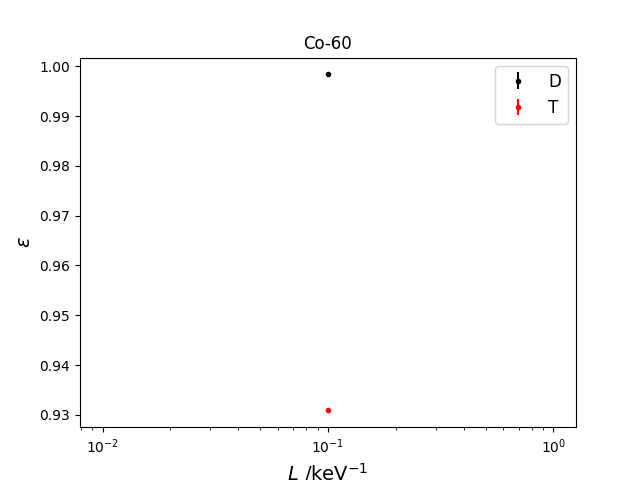
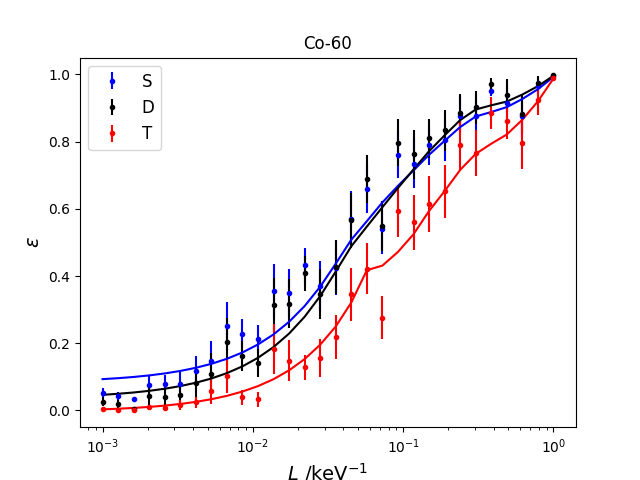
Calculate for single events

diff --git a/MCTDCRcode/main_MCTDCR.py b/MCTDCRcode/main_MCTDCR.py
@@ -16,24 +16,27 @@ import scipy.stats as st
 
 
 ## INPUT OF THE MODEL
-N=25             # number of simulated decay (MC trials)
-Rad=["Cs-137"]       # list of radionuclides (Na-24)
+N=50             # number of simulated decay (MC trials)
+Rad=["Co-60"]       # list of radionuclides (Na-24)
 pmf_1=[1]       # relative abondance (pmf)
 kB = 1e-5         # Birks constant in cm/keV
-#L=[1e-1]
-L = np.logspace(-3, 0, 25) # Free paramete in keV-1 (for Co-60)
-# L = np.logspace(-4,-2,10) # Free paramete in keV-1 (for Co-60)
+# L=[1e-1]
+#L = np.logspace(-3, 0, 25) # Free paramete in keV-1 (for Cs-137)
+L = np.logspace(-3,0,50) # Free paramete in keV-1 (for Co-60)
 # L = np.logspace(-3,-1,10) # Free paramete in keV-1 (for Am-241)
 # L = np.logspace(-3,1,30) # Free paramete in keV-1 (for Sr-90)
 # L = np.logspace(-2,1,50) # Free paramete in keV-1 (for H-3)
 TDCR_measure = 0.977784        # Measured TDCR value
 u_TDCR_measure = 0.000711      # standard uncertainty
+Record = True                  # to record the efficiency curves
 RHO = 0.96         #density of absorber (Toluene) g/cm3
 
 if np.size(pmf_1) > 1:
     if sum(pmf_1) !=1: print("warning p not equal to 1")
 elif pmf_1[0] != 1: print("warning")
 
+mean_efficiency_S = []  # efficiency of single counte rate
+std_efficiency_S = []   # std
 mean_efficiency_T = []  # efficiency of triple coincidence counte rate
 std_efficiency_T = []   # std
 mean_efficiency_D = []  # efficiency of double coincidence counte rate
@@ -42,6 +45,7 @@ TDCR_calcul = []
 for L_i in L: # loop on the free parameter values
 
     ## RUN THE MC CALCULATION
+    efficiency_S = []        # results calculated efficiency for single events
     efficiency_D = []        # results calculated efficiency for double coincidence
     efficiency_T = []        # results calculated efficiency for triple coincidence
 
@@ -210,8 +214,9 @@ for L_i in L: # loop on the free parameter values
        #energy_vec=[90,90,90,3,3,3,3,3,3,3]  # test against Broda ARI 58 (2003) 585-594
        #energy_vec=[25,25,25,3,3,3,3,3,3,3]  # test against Broda ARI 58 (2003) 585-594
        #energy_vec=[3,3,3,3,3,3,3,3,3,3]  # test against Broda ARI 58 (2003) 585-594
-       p_nosingle = np.exp(-L_i*np.sum(np.asarray(energy_vec))/3)
-       p_single = 1-p_nosingle
+       p_nosingle = np.exp(-L_i*np.sum(np.asarray(energy_vec))/3) # probability to have 0 electrons in a PMT
+       p_single = 1-p_nosingle                                    # probability to have at least 1 electrons in a PMT
+       efficiency_S.append(p_single)
        efficiency_T.append(p_single**3)
        efficiency_D.append(3*(p_single)**2-2*efficiency_T[-1])
 
@@ -221,13 +226,15 @@ for L_i in L: # loop on the free parameter values
     std_efficiency_T.append(np.std(efficiency_T)/np.sqrt(N))   # standard deviation
     mean_efficiency_D.append(np.mean(efficiency_D))
     std_efficiency_D.append(np.std(efficiency_D)/np.sqrt(N))
+    mean_efficiency_S.append(np.mean(efficiency_S))
+    std_efficiency_S.append(np.std(efficiency_S)/np.sqrt(N))
     TDCR_calcul.append(mean_efficiency_T[-1]/mean_efficiency_D[-1])
     
     print("\t TDCR calculation")
     print("\t\t Free parameter : ", L_i, " keV-1")
     print("\t\t Efficiency of Triple coincident events : ", round(100*mean_efficiency_T[-1],3), "+/-", round(100*std_efficiency_T[-1],3), " %")
     print("\t\t Efficiency of Double coincident events : ", round(100*mean_efficiency_D[-1],3), "+/-", round(100*std_efficiency_D[-1],3), " %")
-
+    print("\t\t Efficiency of Single events : ", round(100*mean_efficiency_S[-1],3), "+/-", round(100*std_efficiency_S[-1],3), " %")
 #    x = np.arange(np.mean(efficiency_T),1.001,0.001)
 #    plt.figure("efficiency distribution")
 #    plt.clf()
@@ -250,13 +257,16 @@ for L_i in L: # loop on the free parameter values
 
 # TDCR_calcul_vec = np.asarray(efficiency_T)/np.asarray(efficiency_D)
 
+Eff0_S_reg = tl.regress(L, mean_efficiency_S)
 Eff0_D_reg = tl.regress(L, mean_efficiency_D)
 Eff0_T_reg = tl.regress(L, mean_efficiency_T)
 
 plt.figure("Efficiency curve I")
 plt.title(''.join(Rad))
+plt.errorbar(L, mean_efficiency_S, yerr = std_efficiency_D, fmt=".b", label = "S")
 plt.errorbar(L, mean_efficiency_D, yerr = std_efficiency_D, fmt=".k", label = "D")
 plt.errorbar(L, mean_efficiency_T, yerr = std_efficiency_T, fmt=".r", label = "T")
+plt.plot(Eff0_S_reg[:,0],Eff0_S_reg[:,1],'-b')
 plt.plot(Eff0_D_reg[:,0],Eff0_D_reg[:,1],'-k')
 plt.plot(Eff0_T_reg[:,0],Eff0_T_reg[:,1],'-r')
 plt.xscale("log")
@@ -265,20 +275,25 @@ plt.xscale("log")
 plt.xlabel(r"$L$ /keV$^{-1}$", fontsize = 14)
 plt.ylabel(r"$\epsilon$", fontsize = 14)
 plt.legend(fontsize = 12)
-plt.savefig("EfficiencyCurves/fom_"+''.join(Rad)+".png")
+if Record: plt.savefig("EfficiencyCurves/fom_"+''.join(Rad)+".png")
 plt.close()
 
+Eff_S_reg = tl.regress(TDCR_calcul, mean_efficiency_S)
 Eff_D_reg = tl.regress(TDCR_calcul, mean_efficiency_D)
 Eff_T_reg = tl.regress(TDCR_calcul, mean_efficiency_T)
 
 plt.figure("Efficiency curve II")
 plt.title(''.join(Rad))
+plt.errorbar(TDCR_calcul, mean_efficiency_S, yerr=std_efficiency_S, fmt=".b", label = "S")
 plt.errorbar(TDCR_calcul, mean_efficiency_D, yerr=std_efficiency_D, fmt=".k", label = "D")
 plt.errorbar(TDCR_calcul, mean_efficiency_T, yerr=std_efficiency_T, fmt=".r", label = "T")
+plt.plot(Eff_S_reg[:,0],Eff_S_reg[:,1],'-b')
 plt.plot(Eff_D_reg[:,0],Eff_D_reg[:,1],'-k')
 plt.plot(Eff_T_reg[:,0], Eff_T_reg[:,1],'-r')
 plt.xlabel(r"$\epsilon_T/\epsilon_D$", fontsize = 14)
 plt.ylabel(r"$\epsilon_D$", fontsize = 14)
 plt.legend(fontsize = 12)
-plt.savefig("EfficiencyCurves/tdcr_"+''.join(Rad)+".png")
+if Record: plt.savefig("EfficiencyCurves/tdcr_"+''.join(Rad)+".png")
 plt.close()
+
+if Record: tl.writeEffcurves(Eff_S_reg, Rad, pmf_1, kB)

diff --git a/MCTDCRcode/TDCR_model_lib.py b/MCTDCRcode/TDCR_model_lib.py
@@ -534,3 +534,9 @@ print(r)
 def regress(x,y):
     z = sm.nonparametric.lowess(y, x, return_sorted = True)
     return z
+
+def writeEffcurves(x,rad,p,kB):
+    file = open("EfficiencyCurves/Eff_"+''.join(rad)+'_'+''.join(str(p))+'_'+str(kB)+".txt","w")
+    for i in x:
+        file.write(str(i)+"\n")
+    file.close()
